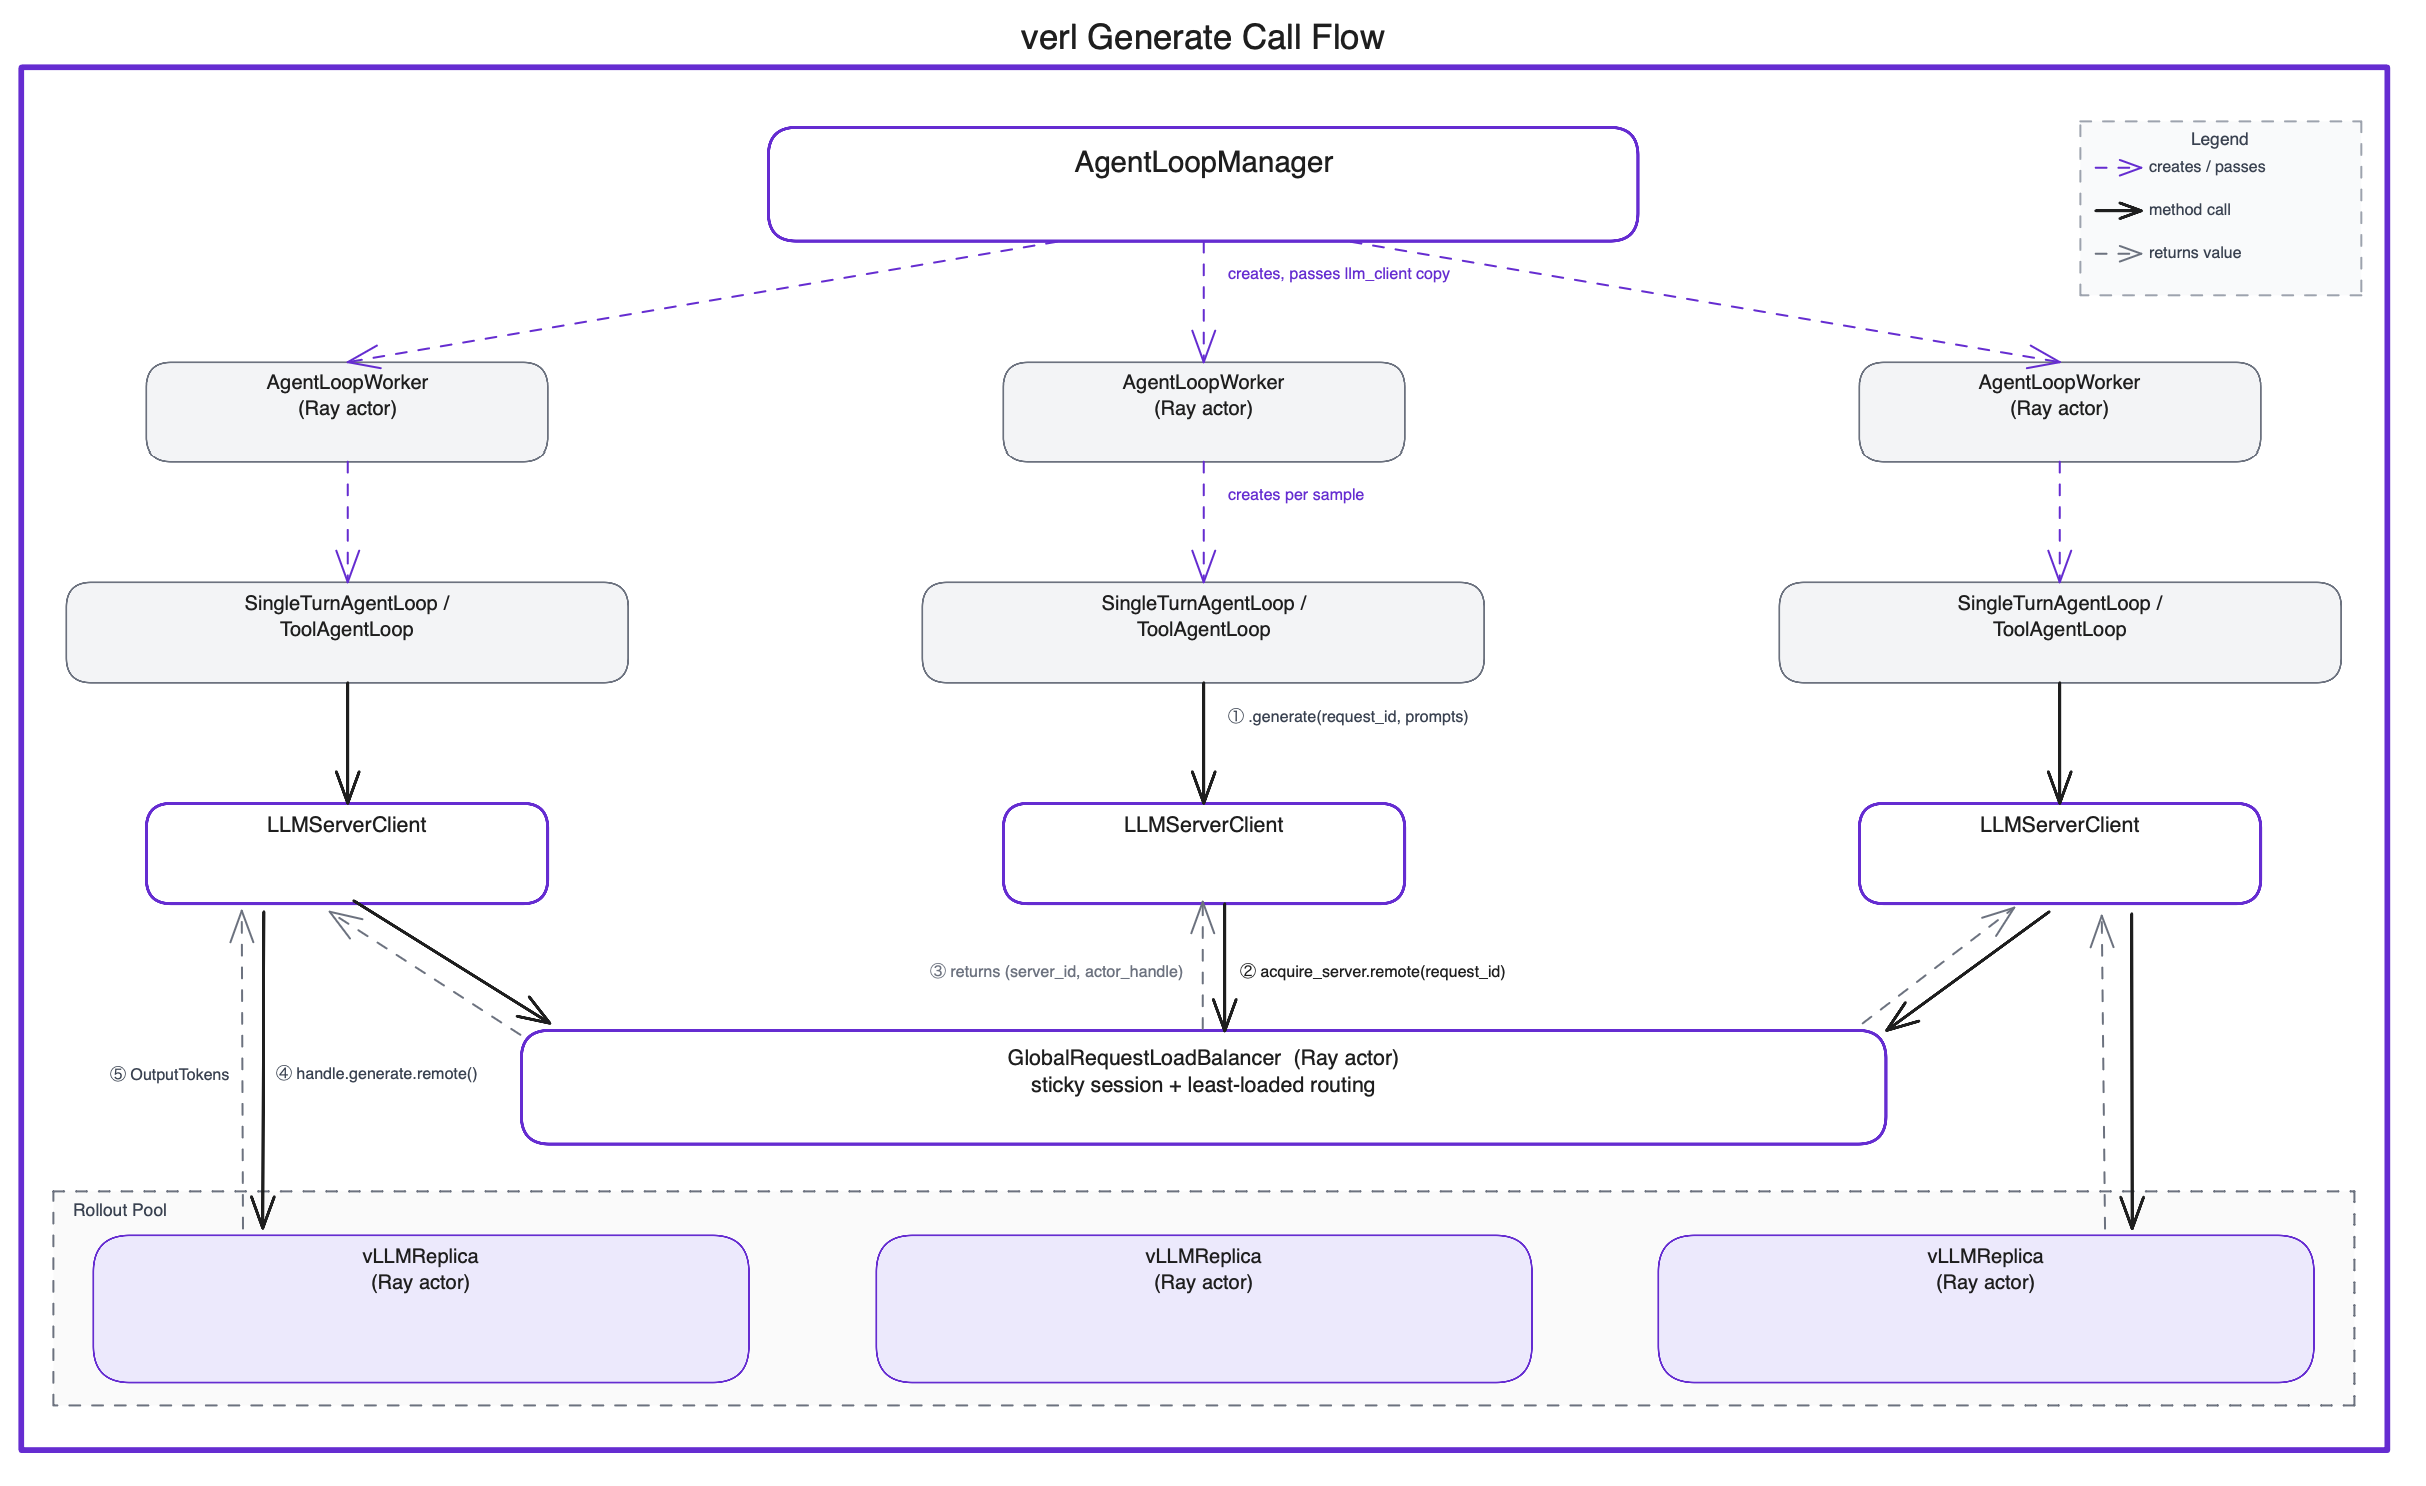
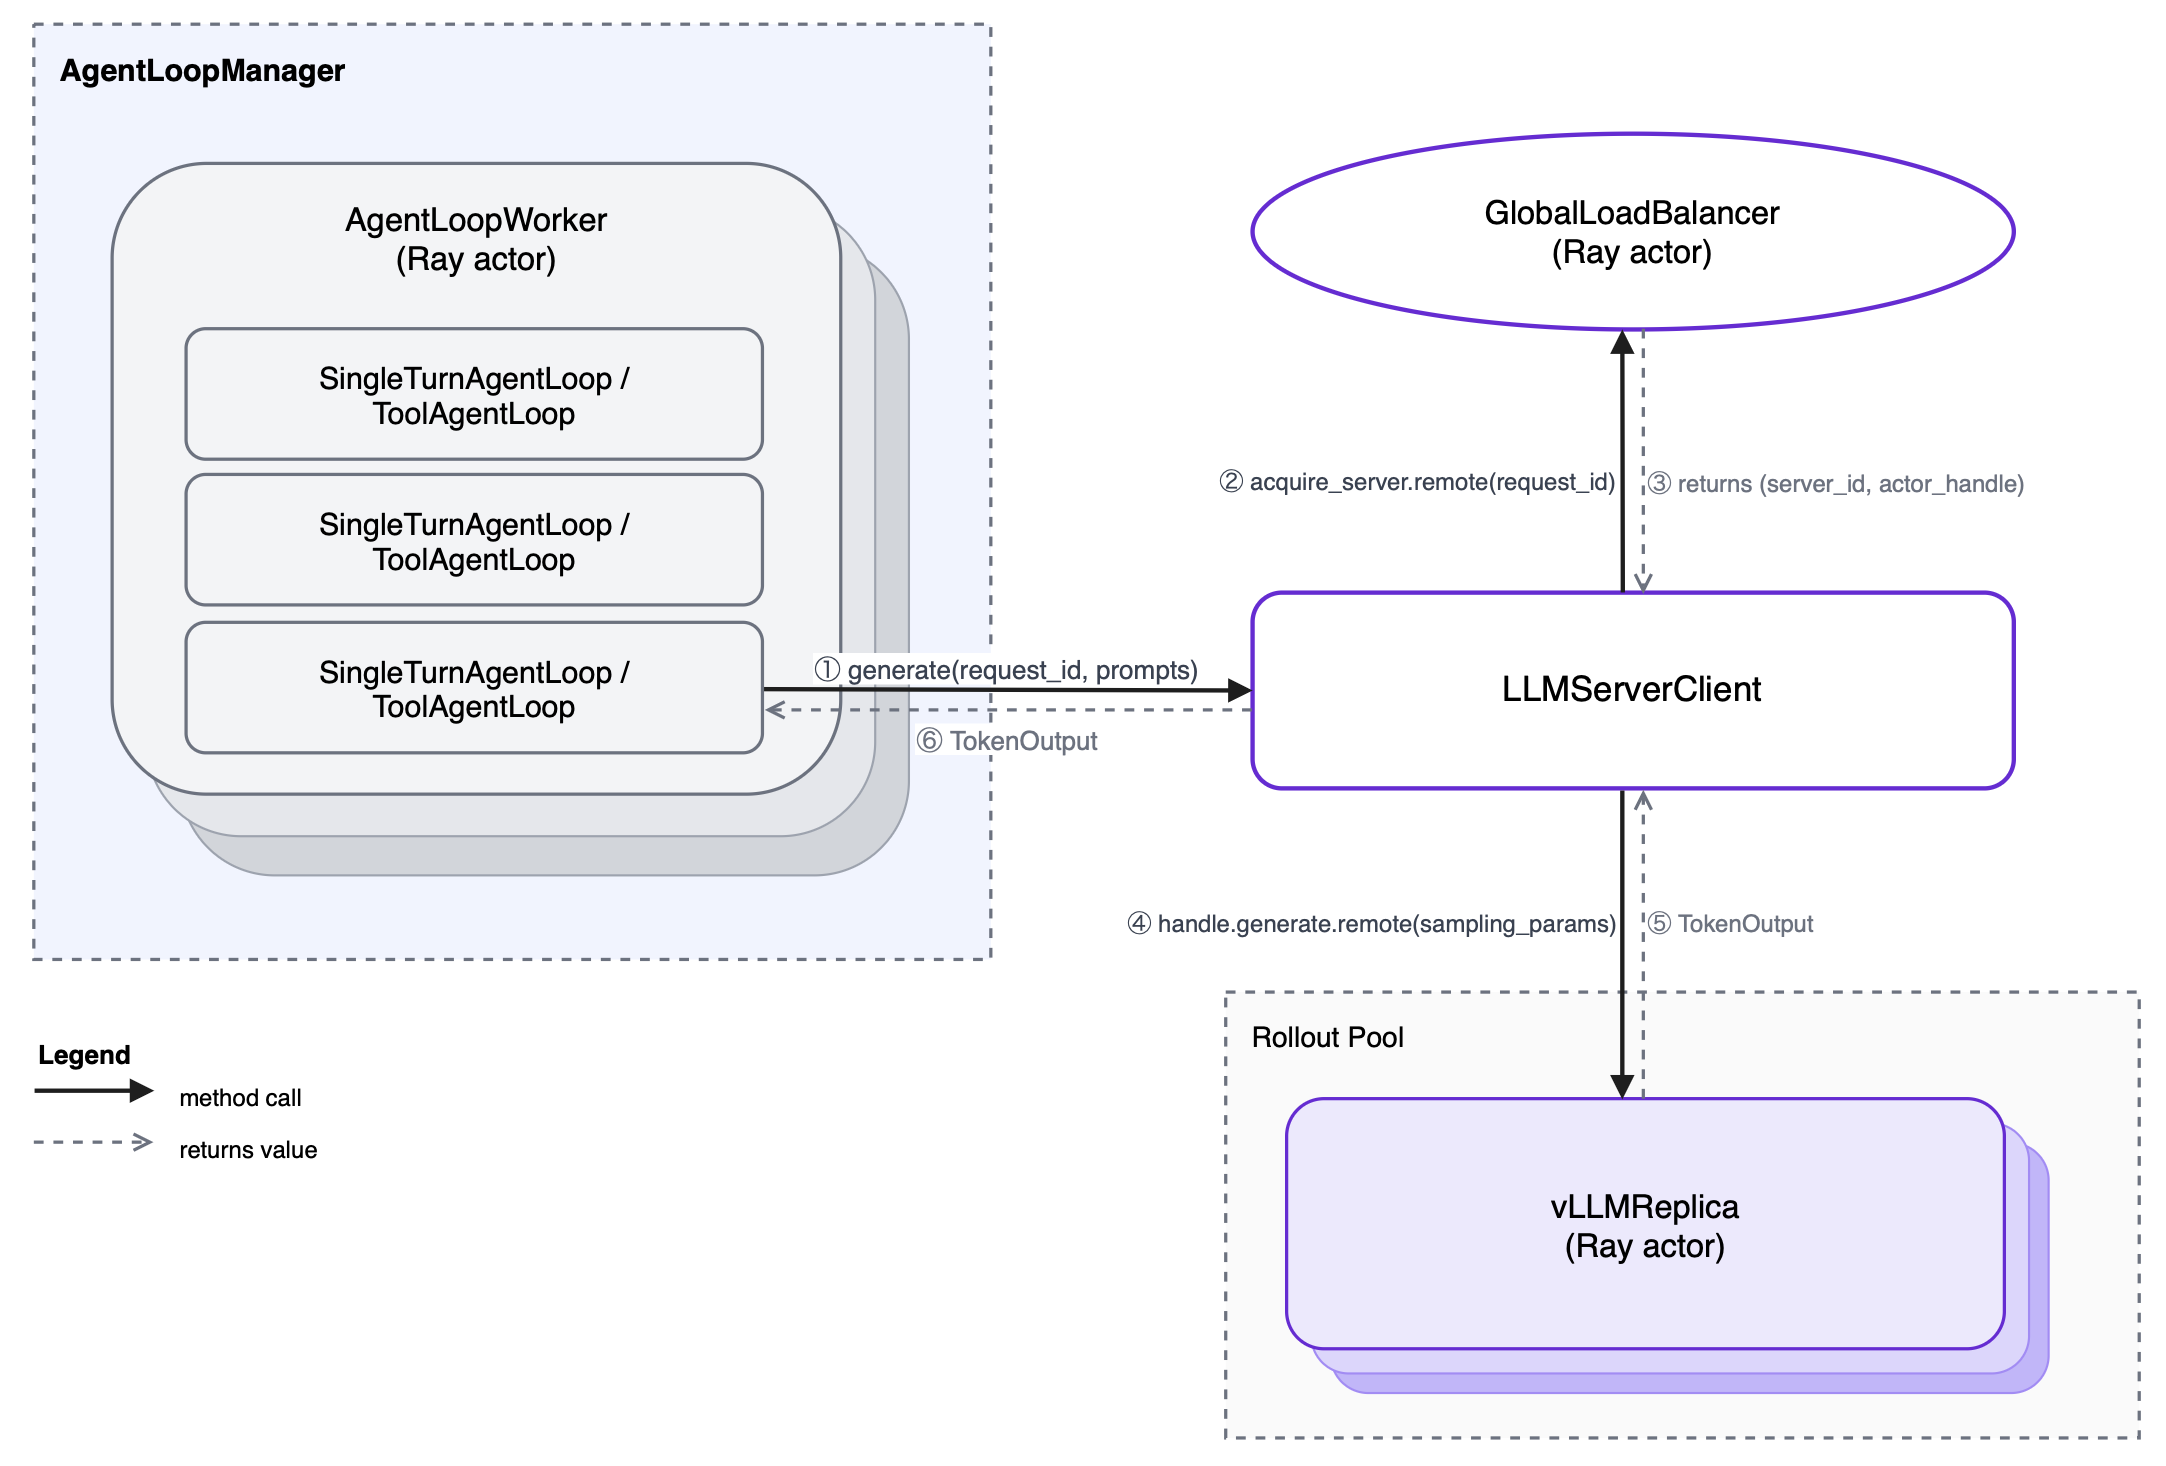
Update examples, config source, README

diff --git a/llm_d_rl_verl_integration/llmd_actor.py b/llm_d_rl_verl_integration/llmd_actor.py
@@ -22,7 +22,7 @@ _DEFAULT_EPP_GRPC_PORT = 9002
 _DEFAULT_EPP_HEALTH_PORT = 9003
 _DEFAULT_ENVOY_PORT = 8081
 _BUNDLED_ENVOY_CONFIG = os.path.join(
-    os.path.dirname(os.path.abspath(__file__)), "config", "envoy.yaml"
+    os.path.dirname(os.path.abspath(__file__)), "llmd_stack", "envoy.yaml"
 )
 
 

diff --git a/README.md b/README.md
@@ -31,36 +31,21 @@ This integration replaces two components:
 The point of the integration is to utilize EPP as the routing stategy.
 Each generation request is sent to the **Endpoint Picker Plugin (EPP)** via gRPC ext_proc.  EPP scores all available vLLM replicas (prefix-cache hit rate, queue depth, KV utilisation) and injects the chosen backend address as a header.  The `EPPLLMClient` reads that header and forwards the request directly to the selected vLLM replica.
 
-### Components
-
-```mermaid
-sequenceDiagram
-    participant W as AgentLoopWorker
-    participant C as EPPLLMClient
-    participant E as EPP subprocess
-    participant V as vLLM Ray actor
-
-    W->>C: generate(prompt_ids, sampling_params)
-    C->>E: gRPC ProcessingRequest (ext_proc)
-    Note over E: prefix-cache-scorer<br/>kv-cache-scorer<br/>queue-scorer<br/>no-hit-lru-scorer
-    E-->>C: x-gateway-destination-endpoint: host:port
-    Note over C: address → actor handle map lookup
-    C->>V: actor.generate.remote(prompt_ids, sampling_params)
-    V-->>C: TokenOutput
-    C-->>W: TokenOutput
-```
+![epp generate call flow](/assets/epp-generate-call-flow.png)
 
 ### How the lifecycle works
 
 After all vLLM replicas are up:
 
-1. `EnvoyAgentLoopManager` creates `LlmdActor` — a Ray actor **pinned to the head node** that starts EPP and Envoy.
+1. `EnvoyAgentLoopManager` creates `LlmdActor` — a Ray actor **pinned to the head node** that starts EPP.
 2. The actor:
    a. Writes the EPP endpoints YAML on the head node.
    b. Starts the EPP subprocess.
    c. Returns EPP gRPC address.
 3. `_create_llm_client` builds `EPPLLMClient` with that address.
 
+**EPPLLMClient:**
+When `.generate()` is called on `EPPLLMClient`, it sends a gRPC ext_proc request to the EPP subprocess. After receiving the selected endpoint, it maps the address to the matching inference engine replica's Ray actor handle and calls `.generate()` on it directly — the same path as verl's built-in `LLMClient`, but with EPP-driven replica selection instead of least-in-flight load balancing.
 
 ### Config variables
 
@@ -82,30 +67,9 @@ After all vLLM replicas are up:
 ### Overview
 
 This integration uses llmd as the rollout backned, meaning, we are treating Envoy as the single rollout endpoint (Note: llm inference engine are still laumnched by verl).
-All generation requests are sent to a single **Envoy** proxy endpoint.  Envoy calls EPP via gRPC ext_proc to pick the best replica, then routes the request to it using an `ORIGINAL_DST` cluster driven by the `x-gateway-destination-endpoint` header EPP injects.  verl workers only ever speak HTTP to one address; all routing intelligence lives inside Envoy + EPP on the head node.
+All generation requests are sent to a single **Envoy** proxy endpoint. Envoy calls EPP via gRPC ext_proc to pick the best replica, then forwards the request to it. verl workers only ever speak HTTP to one address; all routing intelligence lives inside Envoy + EPP on the head node.
 
-### Components
-
-```mermaid
-sequenceDiagram
-    participant W as AgentLoopWorker
-    participant C as EnvoyLLMClient
-    participant Env as Envoy :8081
-    participant E as EPP subprocess :9002
-    participant V as vLLM replica
-
-    W->>C: generate(prompt_ids, sampling_params)
-    C->>Env: POST /inference/v1/generate
-    Env->>E: gRPC ext_proc ProcessingRequest
-    Note over E: prefix-cache-scorer<br/>kv-cache-scorer<br/>queue-scorer<br/>no-hit-lru-scorer
-    E-->>Env: x-gateway-destination-endpoint: host:port
-    Note over Env: ORIGINAL_DST cluster routes<br/>to address in header
-    Env->>V: POST /inference/v1/generate
-    V-->>Env: TokenOutput
-    Env-->>C: TokenOutput
-    C-->>W: TokenOutput
-```
-
+< put similar graph >
 ### How the lifecycle works
 
 After all vLLM replicas are up:
@@ -118,6 +82,8 @@ After all vLLM replicas are up:
    d. Returns `<head-node-ip>:8081` as the Envoy address.
 3. `_create_llm_client` builds `EnvoyLLMClient` with that address.
 
+**EnvoyLLMClient:**
+When `.generate()` is called on `EnvoyLLMClient`, it sends an HTTP request to the local Envoy proxy. Envoy calls EPP via gRPC ext_proc to select a replica, then forwards the request to it using an `ORIGINAL_DST` cluster driven by the address EPP injects into the response header.
 
 ### Config variables
 
@@ -167,31 +133,7 @@ The EPP config must use the PD-aware profile — `shared/epp-example-config-pd.y
 
 ## How to run
 
-Running the integration requires three things:
-
-1. **A running Ray cluster** — any Ray cluster works (local, KubeRay, SSH).  The integration assumes the EPP and Envoy binaries are present on the head node (they are bundled in the provided container image).
-2. **Install the integration package** on every node in the cluster:
-   ```bash
-   pip install -e /path/to/llm-d-rl-verl-integration
-   ```
-3. **Run verl's training entry-point** with the integration wired in via Hydra overrides.
-
-   No other verl source changes or pre-start steps are needed.  EPP (and Envoy, in the Envoy+EPP integration) are started automatically as Ray actors by the manager after all vLLM replicas are up.
-
-### KubeRay example
-
-`examples/ray-cluster.yaml` deploys a single-node 8-GPU cluster: a headless ray-head pod (no GPU, runs the driver and GCS) and a ray-worker pod with 8 GPUs.  The `postStart` hook pre-downloads GSM8K and Qwen3-4B so training can start immediately once the pods are ready.
-
-The training scripts in `examples/training-configs/` are derived from verl's `examples/grpo_trainer/run_qwen3_4b_fsdp.sh` — same GRPO/Qwen3-4B/FSDP defaults — with an `EXTRA` block that adds the integration Hydra overrides.  The only difference between the EPP-as-router and Envoy+EPP variants is the `agent_loop_manager_class`:
-
-| Script | Routing | PD disaggregation |
-|--------|---------|-------------------|
-| `examples/training-configs/run_qwen3_4b_fsdp-8-gpus-epp.sh` | EPP direct gRPC | no |
-| `examples/training-configs/run_qwen3_4b_fsdp-8-gpus-epp_pd.sh` | EPP direct gRPC | yes |
-| `examples/training-configs/run_qwen3_4b_fsdp-8-gpus-llmd_stack.sh` | llm-d stack (Envoy + EPP) | no |
-| `examples/training-configs/run_qwen3_4b_fsdp-8-gpus-llmd_stack_pd.sh` | llm-d stack (Envoy + EPP) | yes |
-
-For PD scripts, `rollout.name=vllm-llmd-pd` is set along with the disaggregation replica counts and NIXL KV transfer config — see [PD Disaggregation](#pd-disaggregation----vllm-llmd-pd) for the full config reference.
+See [examples/](examples/README.md) for a step-by-step KubeRay deployment walkthrough including manifests, EPP config setup, and training script examples.
 
 ---
 

diff --git a/examples/README.md b/examples/README.md
@@ -1,0 +1,63 @@
+# Running the KubeRay Example
+
+Single-node 8-GPU GRPO training on GSM8K with Qwen3-4B using the llm-d RL verl integration.
+
+## Prerequisites
+
+- Kubernetes cluster with GPU nodes
+- KubeRay CRD and operator installed
+
+## Directory structure
+
+```
+examples/
+  configs/
+    epp-config.yaml        # EPP config — standard routing
+    epp-config-pd.yaml     # EPP config — PD disaggregation
+  deployments/
+    configmap.yaml         # Kubernetes ConfigMap bundling both EPP configs
+    ray-cluster.yaml       # RayCluster definition
+```
+
+## Step 1 — Edit the deployment manifests
+
+In `deployments/ray-cluster.yaml`, replace:
+- `<your-namespace>` — Kubernetes namespace to deploy into
+- `<node-name>` — node name for the GPU node (appears twice: head and worker affinity)
+
+## Step 2 — Deploy
+
+```bash
+# ConfigMap must exist before the cluster starts (pods mount it at /etc/llmd-configs/)
+kubectl apply -f examples/deployments/configmap.yaml
+kubectl apply -f examples/deployments/ray-cluster.yaml
+```
+
+Wait for both pods to be ready:
+```bash
+kubectl get pods -w
+```
+
+The `postStart` hook on each pod installs the integration package and pre-downloads GSM8K and Qwen3-4B (~15 min on first run). Training should not start until both pods report `Ready`.
+
+## Step 3 — Run training
+
+Exec into the head pod and run one of the training scripts:
+
+```bash
+kubectl exec -it <head-pod-name> -- bash
+bash /opt/verl/examples/grpo_trainer/run_qwen3_4b_fsdp.sh \
+    actor_rollout_ref.rollout.agent.agent_loop_manager_class=llm_d_rl_verl_integration.epp_router.agent_loop_manager.EPPAgentLoopManager \
+    +actor_rollout_ref.rollout.custom.epp_config_file=/etc/llmd-configs/epp-config.yaml \
+    +actor_rollout_ref.rollout.custom.epp_endpoints_file=/tmp/epp-endpoints.yaml
+```
+
+## Step 4 — Verify it's working
+
+TODO
+
+## EPP config
+
+The configs in `examples/configs/` are starting points. Customize the scorer weights or swap plugins to tune routing for your workload. The path is passed via `EPP_CONFIG_FILE` — you can mount your own ConfigMap or point to any file accessible on the head node.
+
+See the [main README](../README.md) for the full config reference and architecture overview.